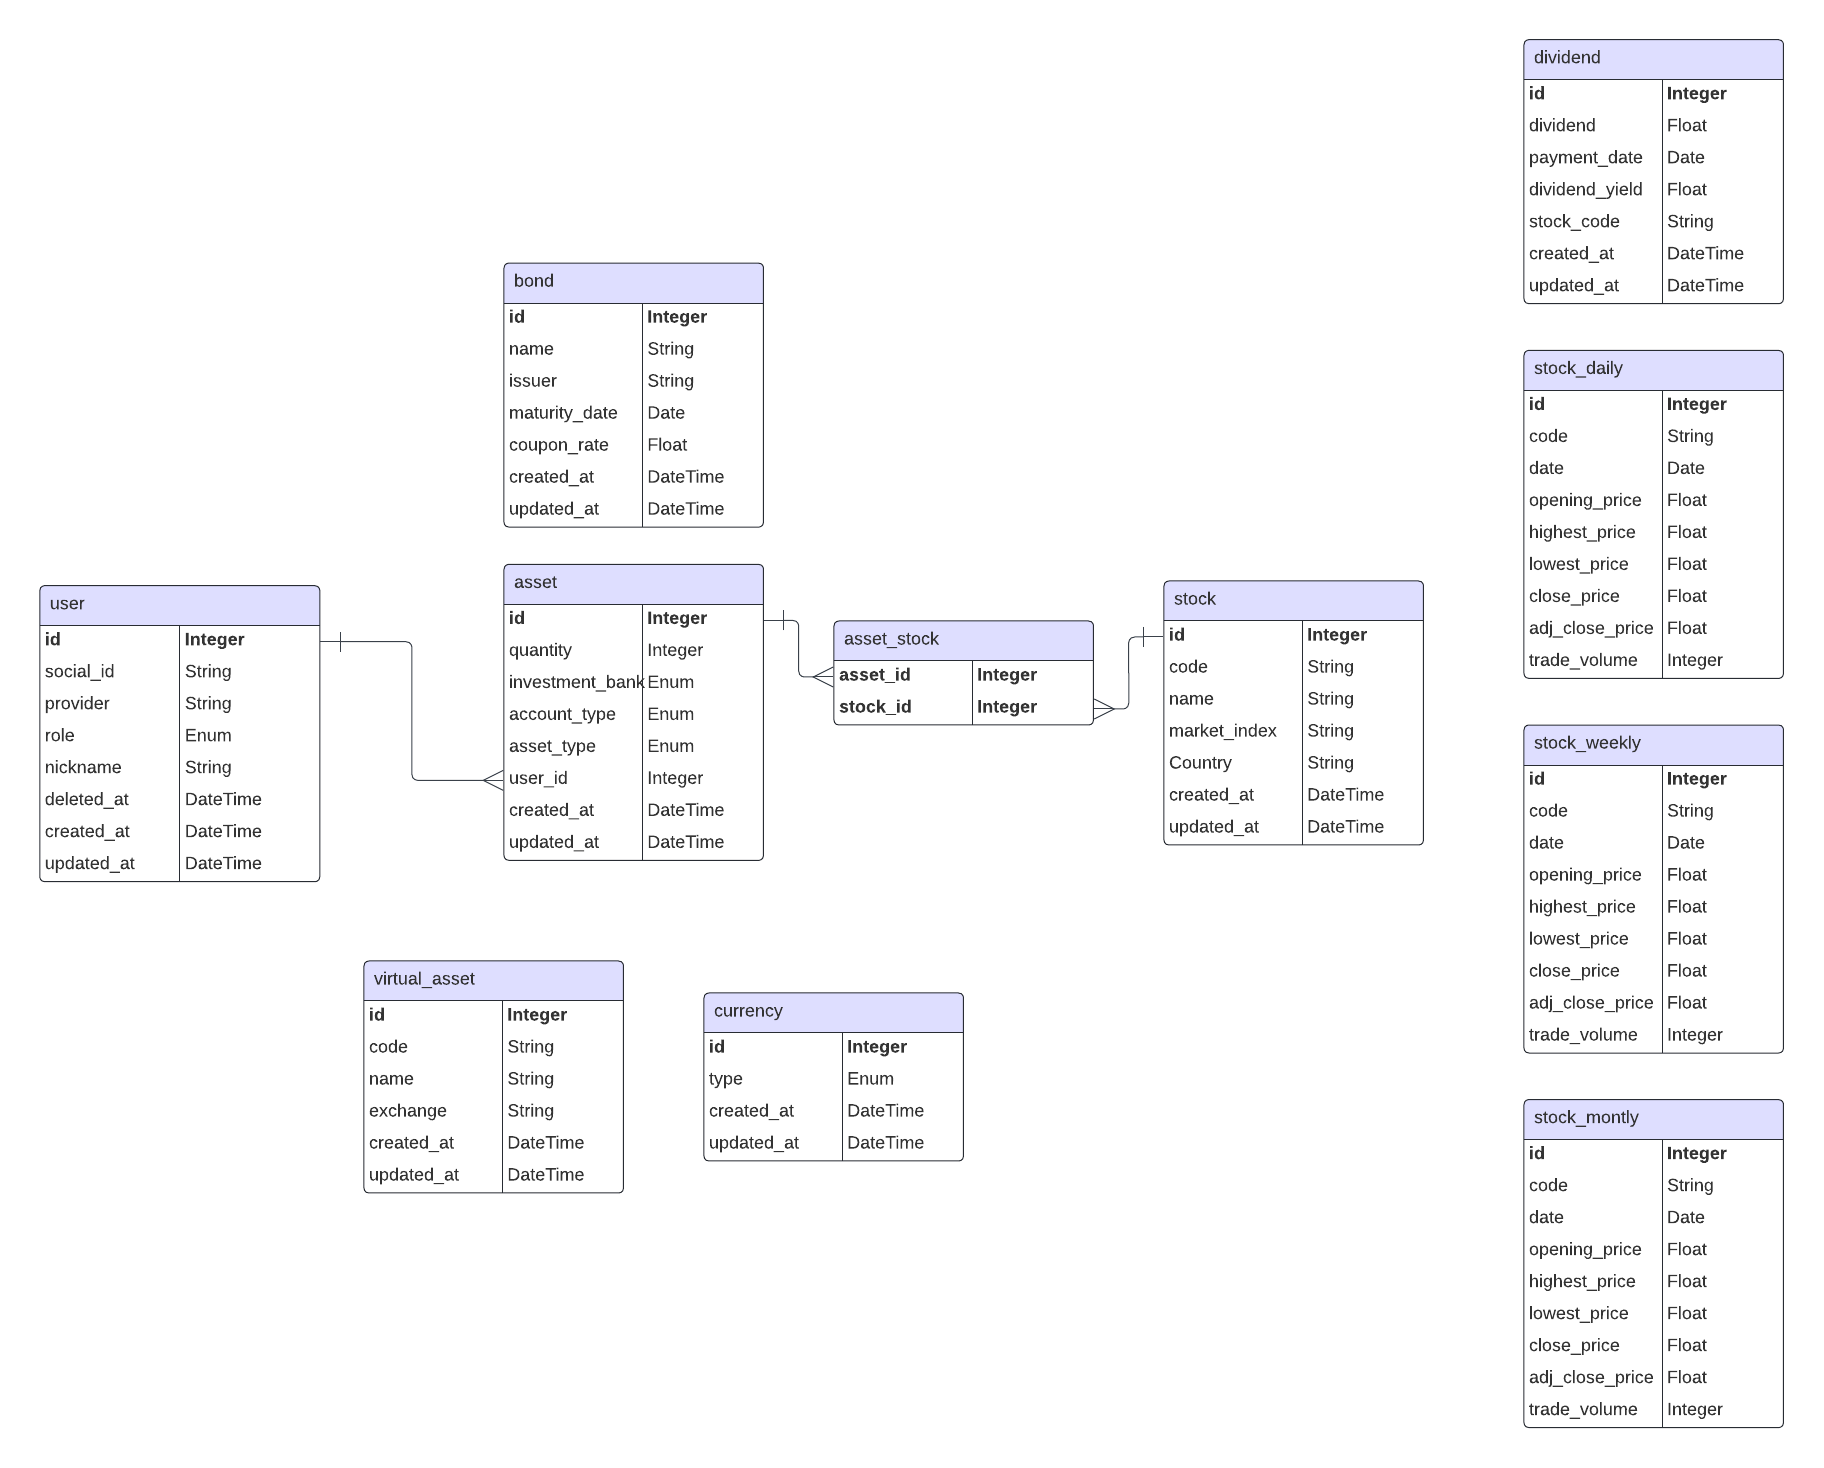
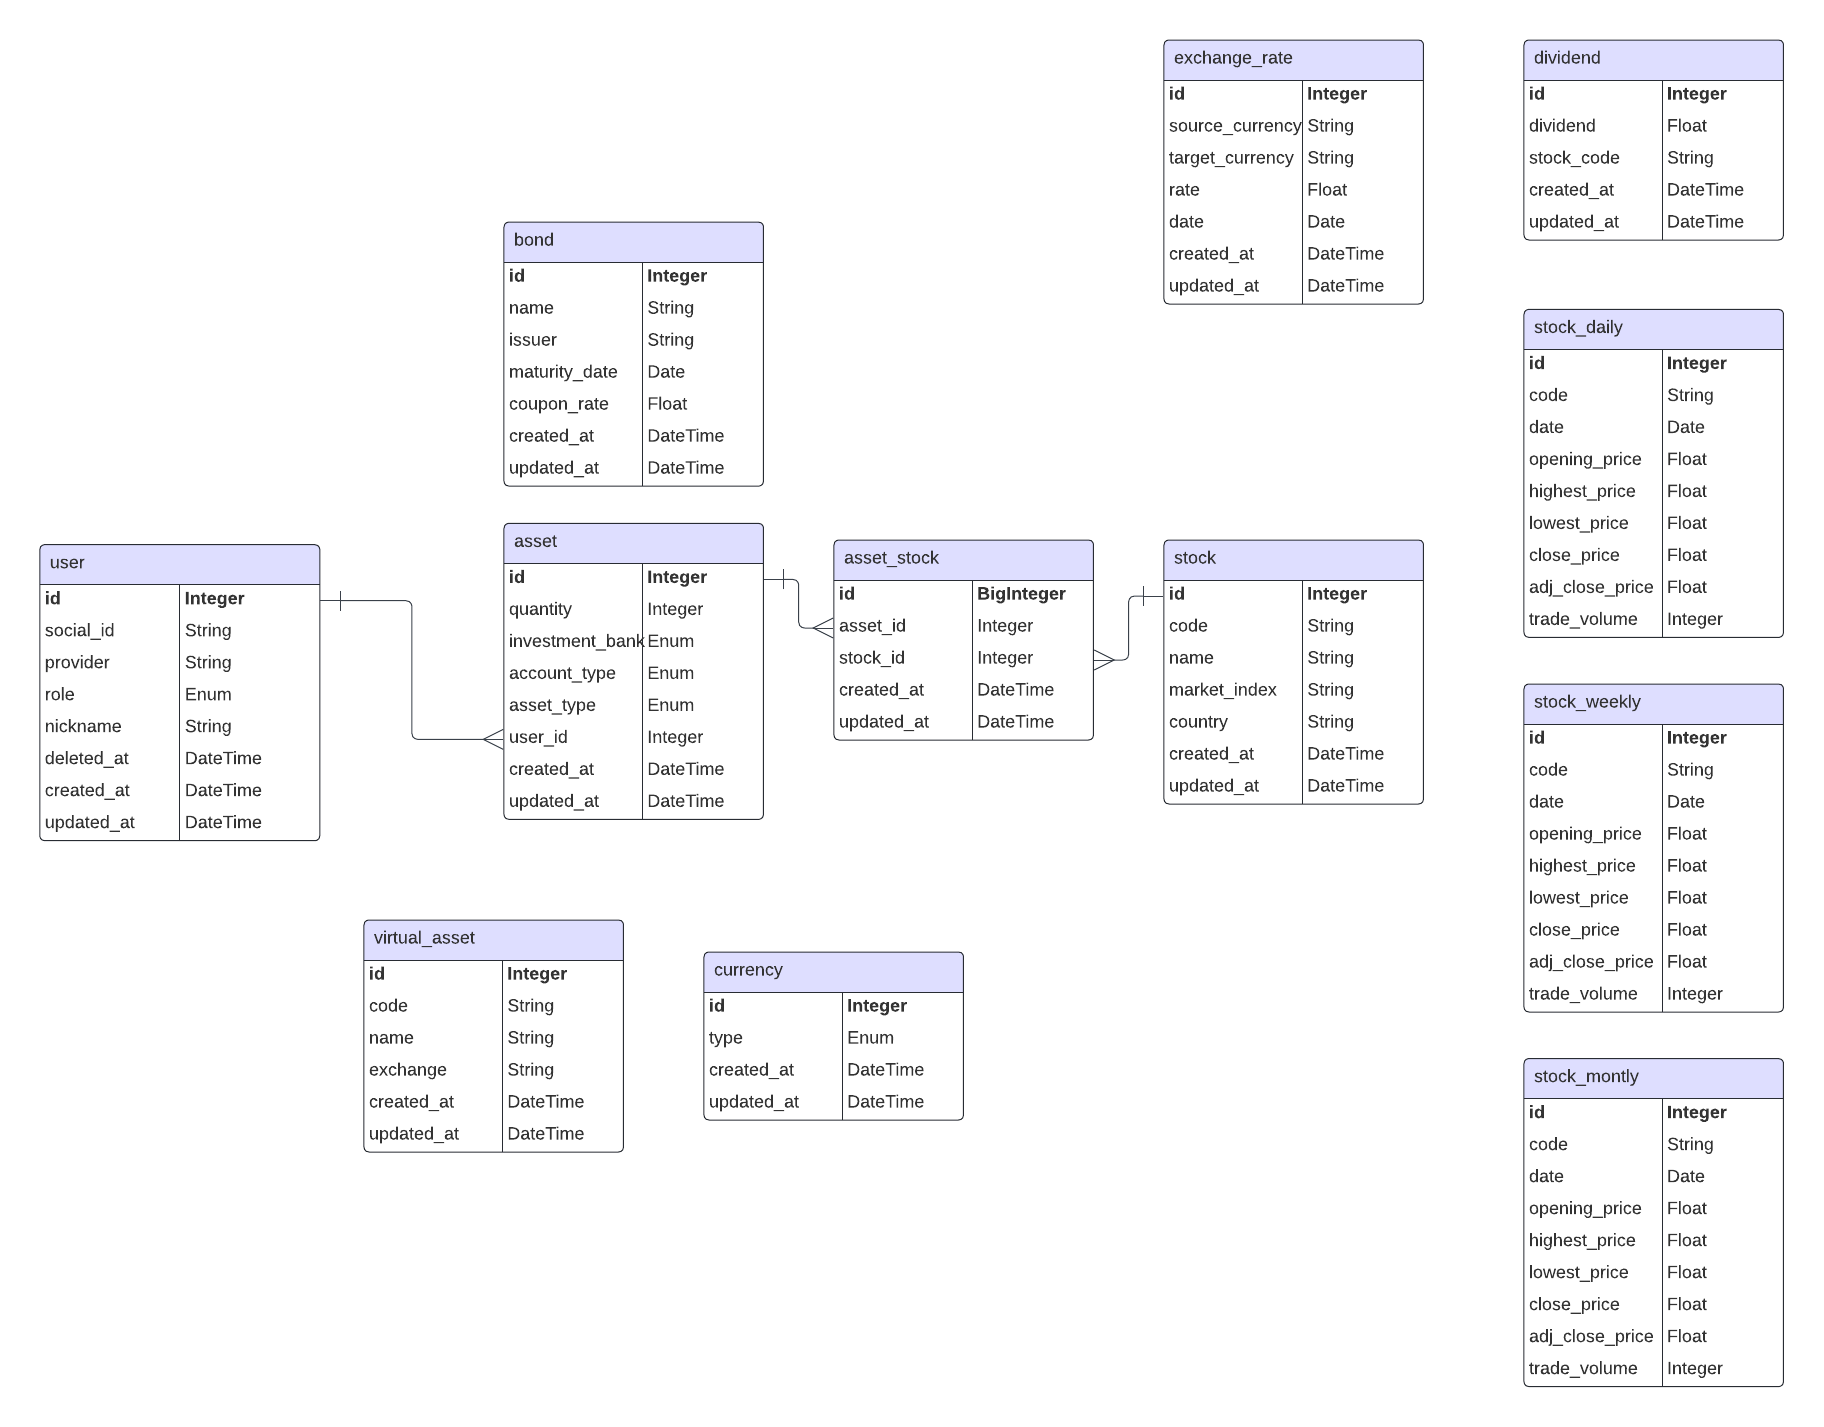
GROW-19 fix : 잘못된 구매일자 선택에 따른 오류 처리

diff --git a/backend/app/api/asset/v1/router.py b/backend/app/api/asset/v1/router.py
@@ -1,19 +1,18 @@
-from fastapi import APIRouter, Depends, HTTPException, status
+from fastapi import APIRouter, Depends, HTTPException, Query, status
 from fastapi.responses import JSONResponse
 from sqlalchemy.exc import SQLAlchemyError
 from sqlalchemy.ext.asyncio import AsyncSession
 
 from app.common.auth.security import verify_jwt_token
 from app.common.schema import JsonResponse
-from app.module.asset.enum import AssetType, CurrencyType
-from app.module.asset.model import Asset, Dividend, ExchangeRate, StockDaily
+from app.module.asset.enum import AssetType
+from app.module.asset.model import Asset, Dividend, StockDaily
 from app.module.asset.repository.asset_repository import AssetRepository
 from app.module.asset.repository.dividend_repository import DividendRepository
-from app.module.asset.repository.exchange_rate_repository import ExchangeRateRepository
 from app.module.asset.repository.stock_daily_repository import StockDailyRepository
 from app.module.asset.schema.asset_schema import AssetTransaction, AssetTransactionRequest
 from app.module.asset.schema.stock_schema import StockAsset, StockAssetResponse
-from app.module.asset.service import get_currency_code
+from app.module.asset.service import get_exchange_rate_to_won
 from app.module.auth.constant import DUMMY_USER_ID
 from app.module.auth.model import User  # noqa: F401 > relationship 설정시 필요합니다.
 from database.dependency import get_mysql_session_router
@@ -23,14 +22,15 @@ asset_router = APIRouter(prefix="/v1")
 
 
 @asset_router.get("/dummy/asset", summary="임시 자산 정보를 반환합니다.", response_model=StockAssetResponse)
-async def get_dummy_assets(session: AsyncSession = Depends(get_mysql_session_router)) -> StockAssetResponse:
-    # dummy_asset_cache = await redis_stock_repository.get_dummy_asset()
-    # if dummy_asset_cache:
-    #     return dummy_asset_cache
+async def get_dummy_assets(
+    session: AsyncSession = Depends(get_mysql_session_router),
+    base_currency=Query(True, description="원화는 True, 종목통화는 False"),
+) -> StockAssetResponse:
+    dummy_asset_cache = await redis_stock_repository.get_dummy_asset()
+    if dummy_asset_cache:
+        return dummy_asset_cache
 
     dummy_assets: list[Asset] = await AssetRepository.get_by_asset_type_eager(session, DUMMY_USER_ID, AssetType.STOCK)
-
-    print(f"{dummy_assets=}")
 
     stock_codes = []
     for asset in dummy_assets:
@@ -39,8 +39,10 @@ async def get_dummy_assets(session: AsyncSession = Depends(get_mysql_session_rou
     stock_dailies: list[StockDaily] = await StockDailyRepository.get_stock_dailies(session, stock_codes)
     dividends: list[Dividend] = await DividendRepository.get_dividends(session, stock_codes)
 
-    stock_daily_map = {daily.code: daily for daily in stock_dailies}
+    stock_daily_map = {(daily.code, daily.date): daily for daily in stock_dailies}
+
     dividend_map = {dividend.stock_code: dividend for dividend in dividends}
+
     current_stock_daily_map: dict[str, StockDaily] = {}
     for daily in stock_dailies:
         if daily.code not in current_stock_daily_map or daily.date > current_stock_daily_map[daily.code].date:
@@ -52,18 +54,46 @@ async def get_dummy_assets(session: AsyncSession = Depends(get_mysql_session_rou
     total_profit_amount = 0
     total_dividend_amount = 0
 
-    for asset in dummy_assets:
-        stock_daily = stock_daily_map.get(asset.asset_stock.stock.code)
-        dividend = dividend_map.get(asset.asset_stock.stock.code)
-        current_stock_daily = current_stock_daily_map.get(asset.asset_stock.stock.code)
+    not_found_stock_codes = []
 
-        # 매입가 미입력시, 추후 구매일자 기준으로 설정하겠습니다.
+    for asset in dummy_assets:
+        stock_daily = stock_daily_map.get((asset.asset_stock.stock.code, asset.purchase_date))
+        current_stock_daily = current_stock_daily_map.get(asset.asset_stock.stock.code)
+        dividend_instance = dividend_map.get(asset.asset_stock.stock.code)
+        if dividend_instance is None:
+            dividend = 0
+        else:
+            dividend = dividend_instance.dividend
+
+        if stock_daily is None or current_stock_daily is None:
+            not_found_stock_codes.append(asset.asset_stock.stock.code)
+            continue
+
         purchase_price = (
             asset.asset_stock.purchase_price
             if asset.asset_stock.purchase_price is not None
-            else stock_daily.adj_close_price  # type: ignore
+            else stock_daily.adj_close_price
         )
-        profit = (current_stock_daily.adj_close_price / stock_daily.adj_close_price - 1) * 100  # type: ignore
+        profit = (current_stock_daily.adj_close_price / stock_daily.adj_close_price - 1) * 100
+
+        source_country = asset.asset_stock.stock.country
+        won_exchange_rate = await get_exchange_rate_to_won(session, source_country)
+
+        if base_currency:
+            current_price = current_stock_daily.adj_close_price * won_exchange_rate
+            opening_price = stock_daily.opening_price * won_exchange_rate
+            highest_price = stock_daily.highest_price * won_exchange_rate
+            lowest_price = stock_daily.lowest_price * won_exchange_rate
+            purchase_price = purchase_price * won_exchange_rate
+            dividend = dividend * won_exchange_rate  # type: ignore
+        else:
+            current_price = current_stock_daily.adj_close_price
+            opening_price = stock_daily.opening_price
+            highest_price = stock_daily.highest_price
+            lowest_price = stock_daily.lowest_price
+            purchase_price = purchase_price
+
+        purchase_amount = purchase_price * asset.quantity
 
         stock_asset = StockAsset(
             stock_code=asset.asset_stock.stock.code,
@@ -71,45 +101,37 @@ async def get_dummy_assets(session: AsyncSession = Depends(get_mysql_session_rou
             quantity=asset.quantity,
             buy_date=asset.purchase_date,
             profit=profit,
-            highest_price=stock_daily.highest_price,  # type: ignore
-            lowest_price=stock_daily.lowest_price,  # type: ignore
-            stock_volume=stock_daily.trade_volume,  # type: ignore
+            current_price=current_price,
+            opening_price=opening_price,
+            highest_price=highest_price,
+            lowest_price=lowest_price,
+            stock_volume=stock_daily.trade_volume,
             investment_bank=asset.investment_bank,
-            dividend=dividend.dividend,  # type: ignore
+            dividend=dividend * asset.quantity,
             purchase_price=purchase_price,
-            purchase_amount=purchase_price * asset.quantity,
+            purchase_amount=purchase_amount,
         )
 
-        total_asset_amount += current_stock_daily.adj_close_price * asset.quantity  # type: ignore
-        total_invest_amount += stock_daily.adj_close_price * asset.quantity  # type: ignore
-
-        source_country_name = asset.asset_stock.stock.country
-        source_country: CurrencyType|None = get_currency_code(source_country_name)
-            
-        
-        target_country: CurrencyType = CurrencyType.KOREA
-        if source_country == target_country:
-            current_exchange_rate = 1
-        else:
-            exchange_rate: ExchangeRate = await ExchangeRateRepository.get_by_source_target(
-                session, source_country, target_country
-            )
-            current_exchange_rate = exchange_rate.rate
-
-        total_dividend_amount += dividend.dividend * current_exchange_rate  # type: ignore # 환율 데이터 수집 후 수정하겠습니다.
+        total_dividend_amount += dividend
+        total_asset_amount += current_stock_daily.adj_close_price * won_exchange_rate * asset.quantity
+        total_invest_amount += stock_daily.adj_close_price * won_exchange_rate * asset.quantity
 
         stock_assets.append(stock_asset)
+
+    if not_found_stock_codes:
+        raise HTTPException(status_code=400, detail=", ".join(not_found_stock_codes) + " 종목들의 구매일자가 잘못 되었습니다.")
+
+    total_invest_growth_rate = ((total_asset_amount - total_invest_amount) / total_invest_amount) * 100
 
     result = StockAssetResponse(
         stock_assets=stock_assets,
         total_asset_amount=total_asset_amount,
         total_asset_growth_rate=0,  # %는 데이터 수집이 안정화 된 후 진행 하겠습니다.
         total_invest_amount=total_invest_amount,
-        total_invest_growth_rate=0,  # %는 데이터 수집이 안정화 된 후 진행 하겠습니다.
+        total_invest_growth_rate=total_invest_growth_rate,
         total_profit_amount=total_profit_amount,
         total_profit_rate=0,  # %는 데이터 수집이 안정화 된 후 진행 하겠습니다.
         total_dividend_amount=total_dividend_amount,
-        total_dividend_rate=0,  # %는 데이터 수집이 안정화 된 후 진행 하겠습니다.
     )
 
     await redis_stock_repository.save_dummy_asset(result)

diff --git a/backend/app/module/asset/service.py b/backend/app/module/asset/service.py
@@ -1,7 +1,25 @@
+from sqlalchemy.ext.asyncio import AsyncSession
+
 from app.module.asset.constant import COUNTRY_TO_CURRENCY
 from app.module.asset.enum import CurrencyType
+from app.module.asset.model import ExchangeRate
+from app.module.asset.repository.exchange_rate_repository import ExchangeRateRepository
 
 
 def get_currency_code(country_name: str) -> CurrencyType | None:
     normalized_country = country_name.upper()
     return COUNTRY_TO_CURRENCY.get(normalized_country, None)
+
+
+async def get_exchange_rate_to_won(session: AsyncSession, source_country: str) -> float:
+    source_currency: CurrencyType | None = get_currency_code(source_country)
+    target_currency: CurrencyType = CurrencyType.KOREA
+    if source_currency == target_currency:
+        result = 1
+    else:
+        exchange_rate: ExchangeRate = await ExchangeRateRepository.get_by_source_target(
+            session, source_currency, target_currency
+        )
+        result = exchange_rate.rate
+
+    return result

diff --git a/backend/app/module/asset/schema/stock_schema.py b/backend/app/module/asset/schema/stock_schema.py
@@ -9,6 +9,8 @@ class StockAsset(BaseModel):
     quantity: int = Field(..., description="수량")
     buy_date: date = Field(..., description="구매일자")
     profit: float = Field(..., description="수익률")
+    current_price: float = Field(..., description="현재가")
+    opening_price: float = Field(..., description="주식 하루 중 시가, 시작되는 가격")
     highest_price: float = Field(..., description="주식 하루 중 고가")
     lowest_price: float = Field(..., description="주식 하루 중 저가")
     stock_volume: int = Field(..., description="주식 하루 중 거래량")
@@ -27,7 +29,6 @@ class StockAssetResponse(BaseModel):
     total_profit_amount: float
     total_profit_rate: float
     total_dividend_amount: float
-    total_dividend_rate: float
 
 
 class StockInfo(BaseModel):

diff --git a/backend/app/module/asset/repository/stock_daily_repository.py b/backend/app/module/asset/repository/stock_daily_repository.py
@@ -25,10 +25,3 @@ class StockDailyRepository:
             select(StockDaily).where(StockDaily.code == stock_code).order_by(StockDaily.date.desc()).limit(1)
         )
         return result.scalar_one_or_none()
-
-    @staticmethod
-    async def get_most_recent_stock_dailies(session: AsyncSession, stock_codes: list[str]) -> list[StockDaily]:
-        result = await session.execute(
-            select(StockDaily).where(StockDaily.code.in_(stock_codes)).order_by(StockDaily.date.desc())
-        )
-        return result.scalars().all()
